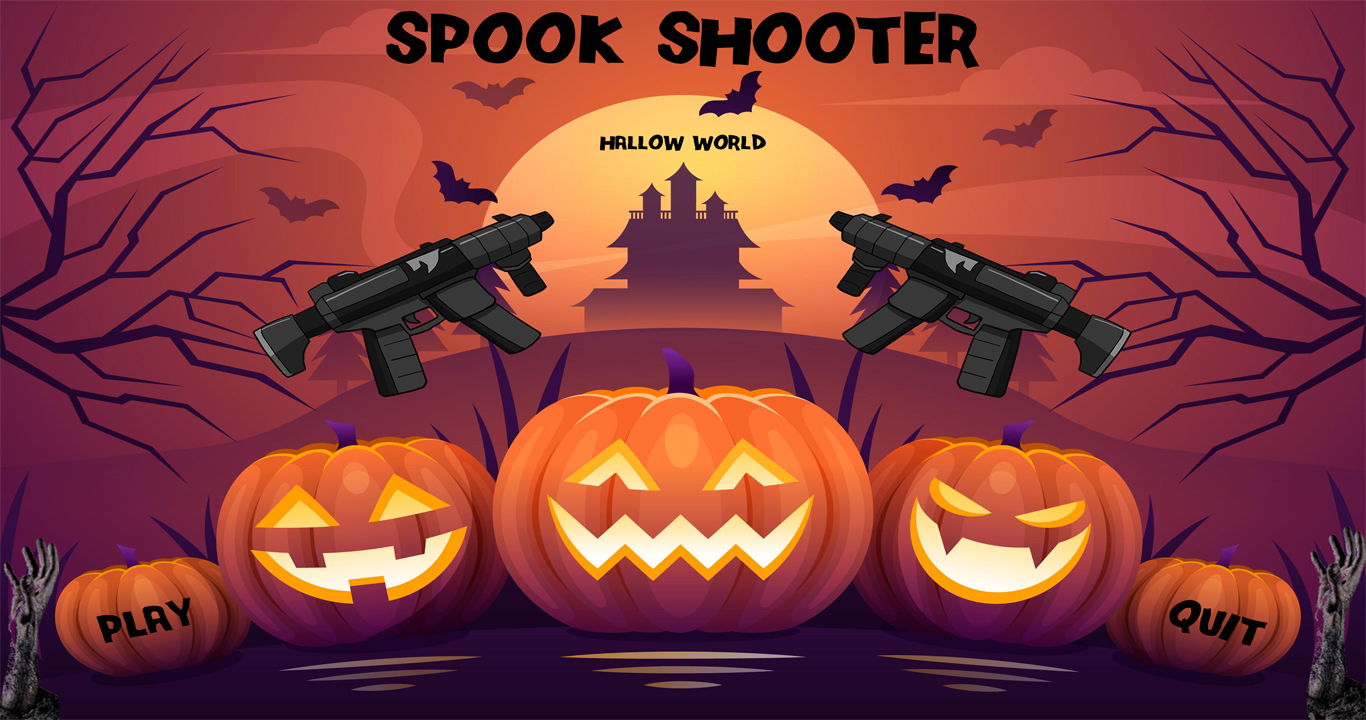
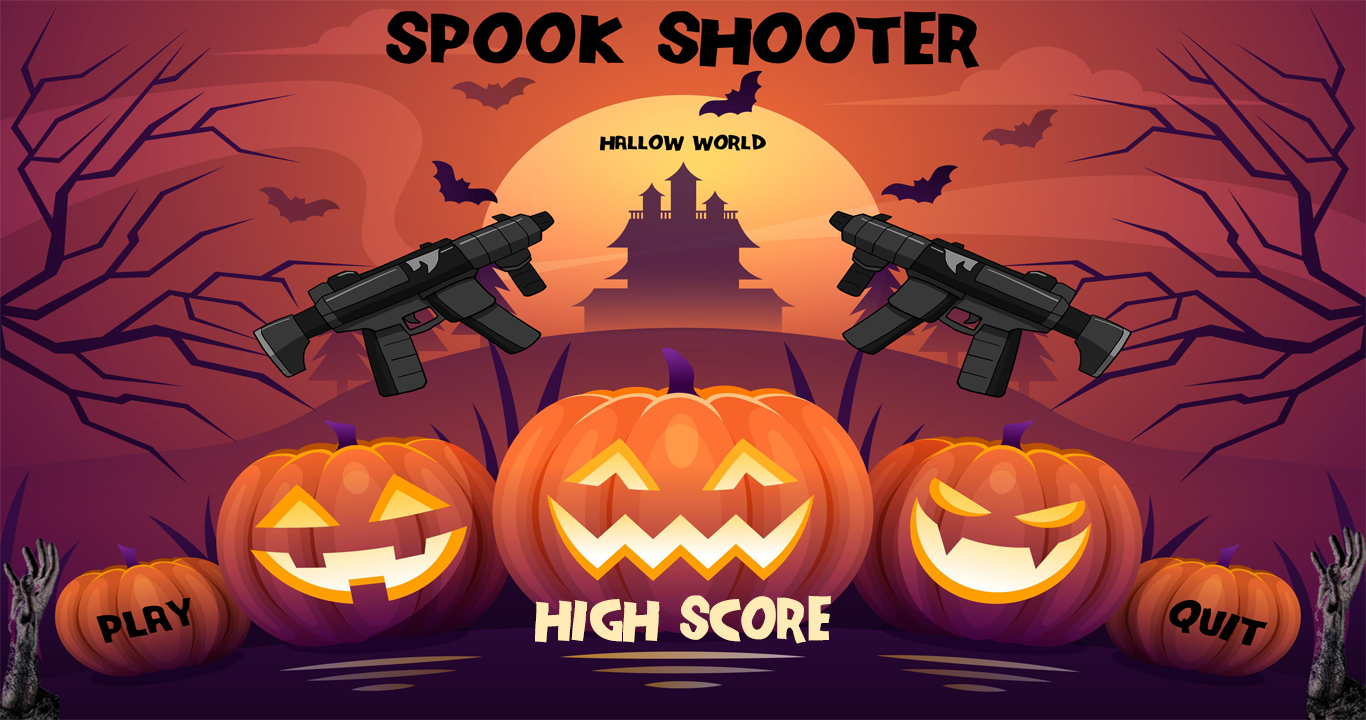
add highscore & menu page

Changed region(s): [[0.369, 0.825, 0.6149, 0.9167]]

diff --git a/spookShooter.py b/spookShooter.py
@@ -1,5 +1,8 @@
+from json import load
+from tkinter import W
 import pygame as pg
 import random
+import pickle
 
 from environment import Environment
 from player import Player
@@ -20,7 +23,7 @@ pg.display.set_caption("Soppky Shooter")
 # Game instance
 ENVIRONMENT = Environment(
                             musicPath="./assets/environment/bg_music.mp3",
-                            level=1,
+                            level=3,
                             width=screen_w,
                             height=screen_h
                         )
@@ -29,24 +32,67 @@ C_PLAYER = Player(height=100, width=50, speed=10)
 E_PLAYER = Enemy(x=random.randint(100, 800), y=-15, life=10, speed=15, e_type='zombie', height=100, width=60,
                    images=['./assets/enemy/zombie_m/1.png','./assets/enemy/zombie_m/2.png','./assets/enemy/zombie_m/3.png','./assets/enemy/zombie_m/4.png','./assets/enemy/zombie_m/5.png','./assets/enemy/zombie_m/6.png'])
 
-RUN = True
 
-while True:
-    if not RUN:
-        break
-    
-    clock.tick(FPS)
+loadScreen = pg.image.load("./assets/start/bg.png")
+loadScreen = pg.transform.scale(loadScreen, (screen_w, screen_h))
+hiscores = pickle.load(open('highscore.txt',"rb"))
+
+
+GAME_START = True
+GAME_RUN = False
+
+
+while GAME_START:
+    WINDOW.blit(loadScreen, (0,0))
+    pg.display.update()
+
+    while GAME_RUN:
+        clock.tick(FPS)
+        
+        if not GAME_RUN:
+            break
+        
+        for event in pg.event.get():
+            if event.type == pg.QUIT:
+                GAME_RUN = False
+
+        if C_PLAYER.life<=0:
+            c_score = C_PLAYER.scr
+            hiscores.sort()
+            for score in hiscores:
+                if c_score>score:
+                    hiscores.append(score)
+            hiscores.sort()
+            pickle.dump(hiscores[:5],open('highscore.txt',"wb"))
+            GAME_RUN = False
+
+        C_PLAYER.move(ENVIRONMENT)
+
+        ENVIRONMENT.draw(WINDOW)
+        C_PLAYER.draw(WINDOW)
+        E_PLAYER.draw(WINDOW)
+
+        pg.display.update()
 
     for event in pg.event.get():
         if event.type == pg.QUIT:
-            RUN = False
+            GAME_START = False
+        if event.type == pg.MOUSEBUTTONDOWN:
+            mouse_x, mouse_y = pg.mouse.get_pos()
+            if (mouse_x<195 and mouse_x>94) and (mouse_y>595 and mouse_y<640):
+                GAME_RUN = True
+            if (mouse_x<1263 and mouse_x>1168) and (mouse_y>596 and mouse_y<720):
+                GAME_START = False
+            if (mouse_x<826 and mouse_x>535) and (mouse_y>595 and mouse_y<648):
+                GAME_START = False
+                WINDOW.fill((23,23,23))
+                WINDOW.blit(font.render(("Highscores"),18,(255,255,255)), (600, 300))
+                scrs = []
+                for i, score in enumerate(hiscores):
+                    WINDOW.blit(font.render((f"{i+1}. {score}"),18,(255,255,255)), (700, 400+(10*(i+1))))
 
-    C_PLAYER.move(ENVIRONMENT)
-
-    ENVIRONMENT.draw(WINDOW)
-    C_PLAYER.draw(WINDOW)
-    E_PLAYER.draw(WINDOW)
-
-    pg.display.update() 
+                WINDOW.blit(font.render(("back"),18,(255,255,255)), (612, 520))
+                if (mouse_x<680 and mouse_x>520) and (mouse_y>612 and mouse_y<540):
+                    GAME_START = True
 
 pg.quit()

diff --git a/Player.py b/Player.py
@@ -7,6 +7,7 @@ class Player(object):
         self.x = 20
         self.y = 20
         self.life = 5
+        self.bar = 100
         self.scr = 0
         self.jump = False
         self.height = height
